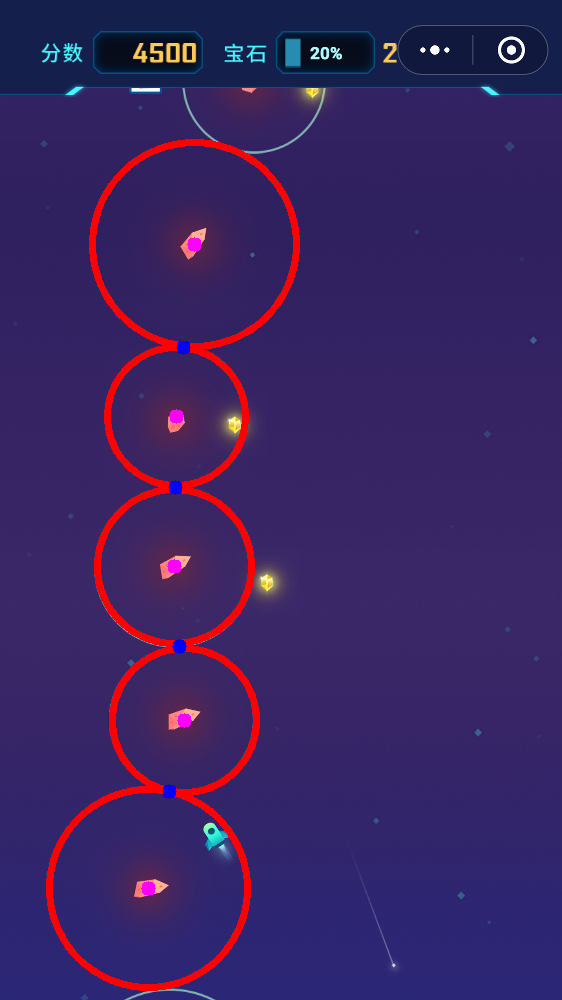
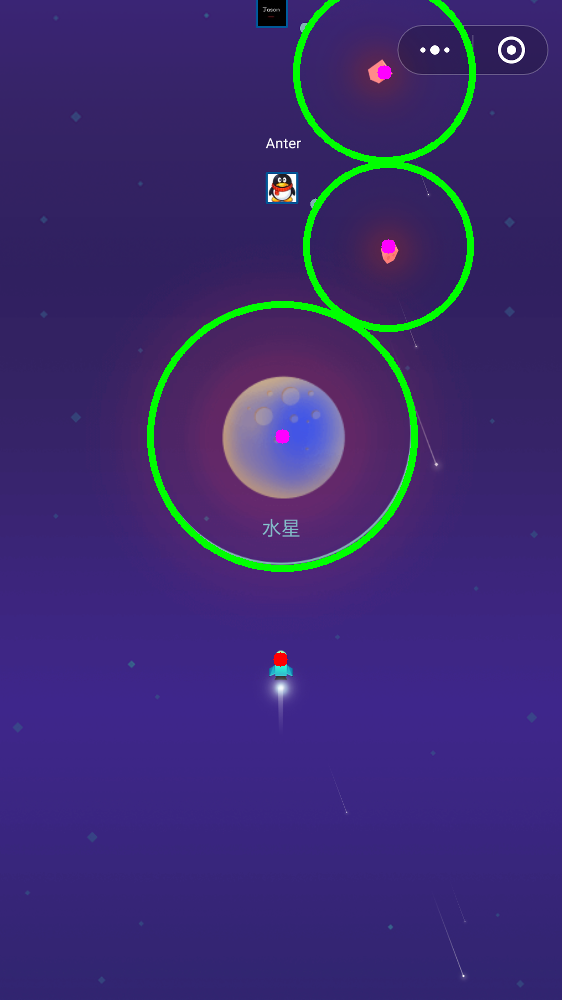
feat: wegoing broken

diff --git a/WeGoing/wegoing.py b/WeGoing/wegoing.py
@@ -1,24 +1,31 @@
 # -*- coding: utf-8 -*-
-from cv2 import cv2
+import os
+import cv2
+import time
 import numpy as np
-
+import win32api
+from PIL import ImageGrab
 """
 === 思路 ===
 核心: 将手机投影到电脑上，截取图像并处理
 
 识别圆: 用 opencv 的 HoughCircles 方法找出图片中所有的圆和圆心
-找出切点: 直接找出切点会有点繁琐，所以可以直接在两个圆心间划线，然后根据半径计算出交点也可以，或者直接等到飞机触碰到线时点击触发点击
+找出切点: 根据两个相切圆的圆心和半径找到交点
 识别飞机：根据颜色识别，准确率有待考证；
          通过图片识别，准确率有待考证
 跳跃：通过 adb 直接触发点击事件，比通过操作屏幕点击更加快速
 """
 
 
-def getImg(fileName):
+def get_img(a, b, c, d):
     """
     读取图片并将图片缩放为 1000 的宽度
     """
-    img = cv2.imread(fileName)
+    img = ImageGrab.grab((a, b, c, d)).convert('RGB')
+    img = np.asarray(img)
+    # img = cv2.imread('./images/02.png')
+    img = cv2.cvtColor(img, cv2.COLOR_RGB2BGR)
+    # img = cv2.GaussianBlur(img, (5, 5), 1.5)
     width = img.shape[:1][0]
     times = 1000 / width
     dst = cv2.resize(img, None, fx=times, fy=times,
@@ -26,66 +33,139 @@ def getImg(fileName):
     return dst
 
 
-def getCircles(dst):
+def get_airplane(img):
+    """
+    获取飞机的坐标
+    """
+    w, h = img.shape[:2]
+    pixel_x_sum = 0
+    pixel_y_sum = 0
+    pixel_count = 0
+    for i in range(w):
+        for j in range(h):
+            pixel = img[i, j]
+            if(15 < pixel[2] < 20 and 80 < pixel[1] < 90 and 110 < pixel[0] < 120):
+                pixel_x_sum += j
+                pixel_y_sum += i
+                pixel_count += 1
+    if all((pixel_x_sum, pixel_y_sum, pixel_count)):
+        pixel_x = int(pixel_x_sum / pixel_count)
+        pixel_y = int(pixel_y_sum / pixel_count)
+    return pixel_x, pixel_y
+
+
+def draw_airplane(img, point):
+    """
+    将飞机所在点在图上标出来
+    """
+    cv2.circle(img, (point[0], point[1]), 2, (0, 0, 255), 10)
+    return img
+
+
+def get_circles(dst):
+    """
+    获取图片上所有圆的圆心坐标与半径
+    """
     gray = cv2.cvtColor(dst, cv2.COLOR_RGB2GRAY)  # 灰度图像
     circles = cv2.HoughCircles(gray, cv2.HOUGH_GRADIENT, 1, 100)
-
+    large_circles = cv2.HoughCircles(gray, cv2.HOUGH_GRADIENT, 1, 100, circles=None,
+                                     param1=100, param2=30, minRadius=100, maxRadius=300)
     cles = circles[0, :, :]
+    # cles = large_circles[0, :, :]
     cles = np.around(np.around(cles))  # 四舍五入，减少计算量
-    cles = cles[np.lexsort(cles[:, :-1:].T)]
-    print(cles)
+    cles = cles[np.lexsort(-cles[:, :-1:].T)]
     return cles
 
 
-def drawCircles(img, cles):
+def draw_circles(img, cles):
+    """
+    在图片上把圆画出来
+    """
     for i in cles[:]:
-        cv2.circle(img, (i[0], i[1]), i[2], (0, 0, 255), 5)  # 画圆
+        cv2.circle(img, (i[0], i[1]), i[2], (0, 255, 0), 5)  # 画圆
         cv2.circle(img, (i[0], i[1]), 2, (255, 0, 255), 10)  # 画圆心
     return img
 
 
-def getPoints(cles):
-    points = []
-    for i in range(len(cles)):
-        if i < len(cles) - 1:
-            a = cles[i][:2]
-            b = cles[i + 1][:2]
-            r1 = cles[i][2]
-            r2 = cles[i + 1][2]
+def get_tangency(cles, air):
+    """
+    获取相切圆的切点
+    """
+    point = []
+    for idx, item in enumerate(cles):
+        if(((item[0] - air[0])**2 + (item[1] - air[1])**2 < item[2]**2) and idx < len(cles)):
+            a = item[:2]
+            b = cles[idx + 1][:2]
+            r1 = item[2]
+            r2 = cles[idx + 1][2]
             px = b[0] - (r2 * (b[0] - a[0]) / (r1 + r2))
             py = b[1] - (r2 * (b[1] - a[1]) / (r1 + r2))
-            points.append([px, py])
-    points = np.around(np.around(points))
-    return points
+            point = [px, py]
+            break
+    point = np.around(point)
+    return point
 
 
-def drawPoints(img, points):
-    for i in points[:]:
-        cv2.circle(img, (i[0], i[1]), 2, (255, 0, 0), 10)
+def draw_tangency(img, tangency):
+    """
+    将圆切点画在图像上
+    """
+    cv2.circle(img, tuple(tangency), 2, (255, 0, 0), 10)
     return img
 
 
-def showImg(img):
+def show_img(img):
+    """
+    显示图片
+    """
     cv2.namedWindow('WeGoing')
     cv2.imshow('WeGoing', img)
     cv2.waitKey(0)
     cv2.destroyWindow('WeGoing')
 
 
+def jump():
+    cmd = 'adb shell input tap %s %s' % (800, 300)
+    os.system(cmd)
+
+
+def distance(air, tangency):
+    """
+    计算
+    """
+    if ((air[0] - tangency[0])**2 + (air[1] - tangency[1]) < 20**2):
+        # jump()
+        print('jump')
+    else:
+        print('next')
+
+
 def main():
-    dst = getImg('./02.png')  # 获取目标图像
+    """
+    主函数
+    """
+    print('begin')
+    dst = get_img(0, 200, 540, 1020)  # 获取目标图像
+    time_start = time.time()
+    # 飞机
+    airplane = get_airplane(dst)
+    # dst = draw_airplane(dst, airplane)
+    # 圆
+    circles = get_circles(dst)
+    # dst = draw_circles(dst, circles)
+    # 切点
+    tangency = get_tangency(circles, airplane)
+    if tangency.any():
+        distance(airplane, tangency)
+        # dst = draw_tangency(dst, tangency)
+    else:
+        print(False)
 
-    circles = getCircles(dst)
-
-    points = getPoints(circles)
-
-    dst = drawCircles(dst, circles)
-
-    dst = drawPoints(dst, points)
-
-    showImg(dst)
-
-    cv2.imwrite('./create.png', dst)
+    # show_img(dst)
+    time_end = time.time()
+    print(time_end - time_start)
+    main()
+    # cv2.imwrite('./create.png', dst)
 
 
 main()

diff --git a/WeGoing/android.py b/WeGoing/android.py
@@ -1,0 +1,5 @@
+from PIL import ImageGrab
+
+img = ImageGrab.grab((0, 100, 540, 1020))
+
+img.save('wegoing.png')

diff --git a/WeGoing/getScreen.py b/WeGoing/getScreen.py
@@ -1,0 +1,5 @@
+from PIL import ImageGrab
+
+im = ImageGrab.grab()
+
+im.show()

diff --git a/WeGoing/README.md b/WeGoing/README.md
@@ -1,0 +1,3 @@
+# WeGoing 辅助
+
+WeGoing 的辅助程序，最终因为 python 的计算延时破产，留下来当个纪念
